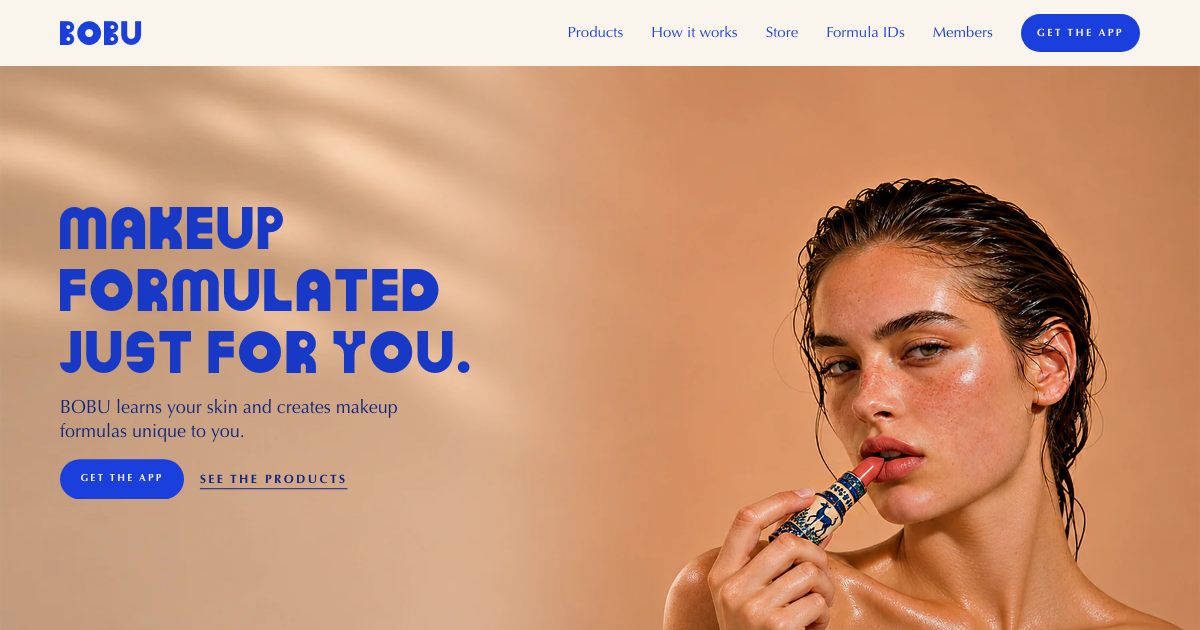
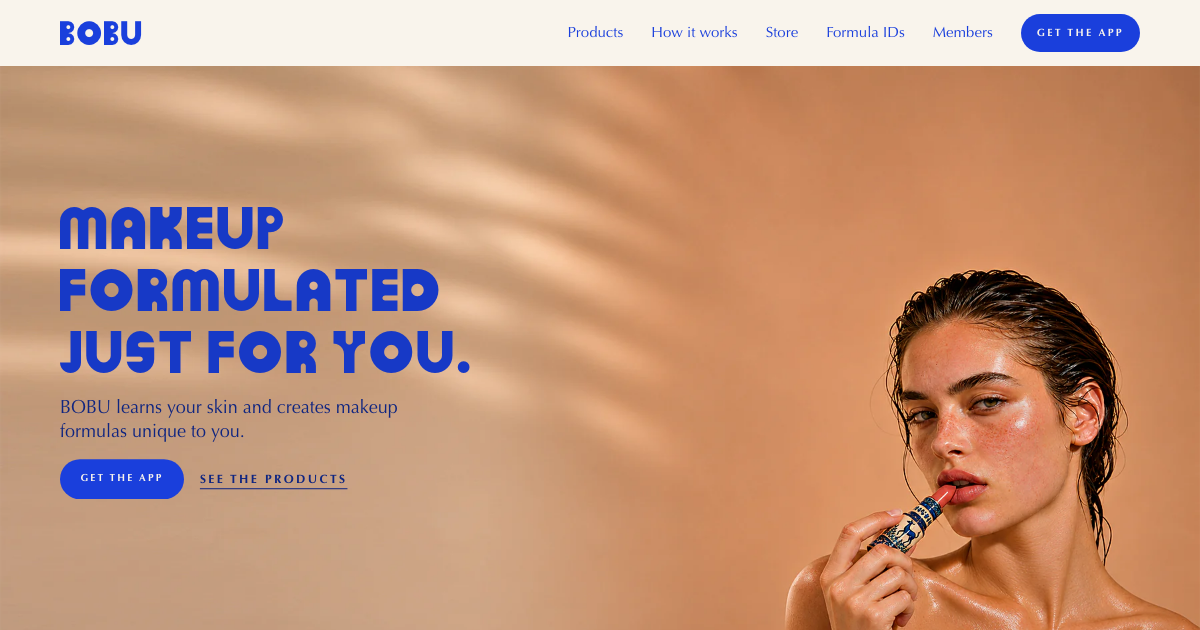
Zoom the landing photo out further so it reads crisp

diff --git a/index.html b/index.html
@@ -16,7 +16,7 @@
 <link rel="icon" href="assets/icon.png">
 <link rel="apple-touch-icon" href="assets/icon.png">
 <link rel="preload" href="assets/fonts/BOBUSignature-Regular.woff2" as="font" type="font/woff2" crossorigin>
-<link rel="stylesheet" href="styles.css?v=61">
+<link rel="stylesheet" href="styles.css?v=62">
 </head>
 <body>
 
@@ -37,7 +37,7 @@
   <section class="hero hero-home">
     <picture>
       <source media="(min-width: 821px)" srcset="assets/photo/lipstick-wide-1800.webp 1800w, assets/photo/lipstick-wide-2800.webp 2800w, assets/photo/lipstick-wide-3600.webp 3600w" sizes="100vw">
-      <img class="hero-photo" src="assets/photo/lipstick-tall-860.webp" srcset="assets/photo/lipstick-tall-860.webp 860w, assets/photo/lipstick-tall-1170.webp 1170w, assets/photo/lipstick-tall-1700.webp 1700w" sizes="100vw" width="1700" height="2511" fetchpriority="high" alt="A woman with freckles and wet hair putting on a coral lipstick from an enamelled tube, in front of a warm wall with palm shadows">
+      <img class="hero-photo" src="assets/photo/lipstick-tall-860.webp" srcset="assets/photo/lipstick-tall-860.webp 860w, assets/photo/lipstick-tall-1170.webp 1170w, assets/photo/lipstick-tall-1700.webp 1700w" sizes="100vw" width="1700" height="2210" fetchpriority="high" alt="A woman with freckles and wet hair putting on a coral lipstick from an enamelled tube, in front of a warm wall with palm shadows">
     </picture>
     <div class="hero-words">
       <h1 class="display">Makeup formulated just for you.</h1>
@@ -196,6 +196,6 @@
   <img class="footer-panther" src="assets/art/panther-sitting.svg" alt="" loading="lazy">
 </footer>
 
-<script src="app.js?v=61" defer></script>
+<script src="app.js?v=62" defer></script>
 </body>
 </html>

diff --git a/styles.css b/styles.css
@@ -107,7 +107,7 @@ button { font: inherit; color: inherit; background: none; border: 0; padding: 0;
 .hero-foot .lede { font-size: 19px; line-height: 1.4; max-width: 24em; margin: 0; }
 .hero-actions { display: flex; align-items: center; gap: 22px; margin: 18px 0 12px; flex-wrap: wrap; }
 /* The landing photo fills the section, and the words sit straight on its open wall. */
-.hero-home { --hu: min(1vw, 5.2px); display: block; position: relative; overflow: hidden; margin-top: var(--nav); padding: 0; height: min(147.7vw, calc(100svh - var(--nav))); background: var(--hero); }
+.hero-home { --hu: min(1vw, 5.2px); display: block; position: relative; overflow: hidden; margin-top: var(--nav); padding: 0; height: min(130vw, calc(100svh - var(--nav))); background: var(--hero); }
 .hero-photo { position: absolute; inset: 0; width: 100%; height: 100%; max-width: none; object-fit: cover; object-position: 50% 0; }
 .hero-home .hero-words { display: block; position: relative; z-index: 1; padding: calc(4 * var(--hu)) var(--gutter) 0; }
 .hero-home h1 { color: color-mix(in srgb, var(--ink) 90%, #000); font-size: calc(9.8 * var(--hu)); text-align: left; padding: 0; margin-bottom: calc(1.5 * var(--hu)); }

diff --git a/members.html b/members.html
@@ -16,7 +16,7 @@
 <link rel="icon" href="assets/icon.png">
 <link rel="apple-touch-icon" href="assets/icon.png">
 <link rel="preload" href="assets/fonts/BOBUSignature-Regular.woff2" as="font" type="font/woff2" crossorigin>
-<link rel="stylesheet" href="styles.css?v=61">
+<link rel="stylesheet" href="styles.css?v=62">
 </head>
 <body>
 
@@ -86,6 +86,6 @@
   <img class="footer-panther" src="assets/art/panther-sitting.svg" alt="" loading="lazy">
 </footer>
 
-<script src="app.js?v=61" defer></script>
+<script src="app.js?v=62" defer></script>
 </body>
 </html>
